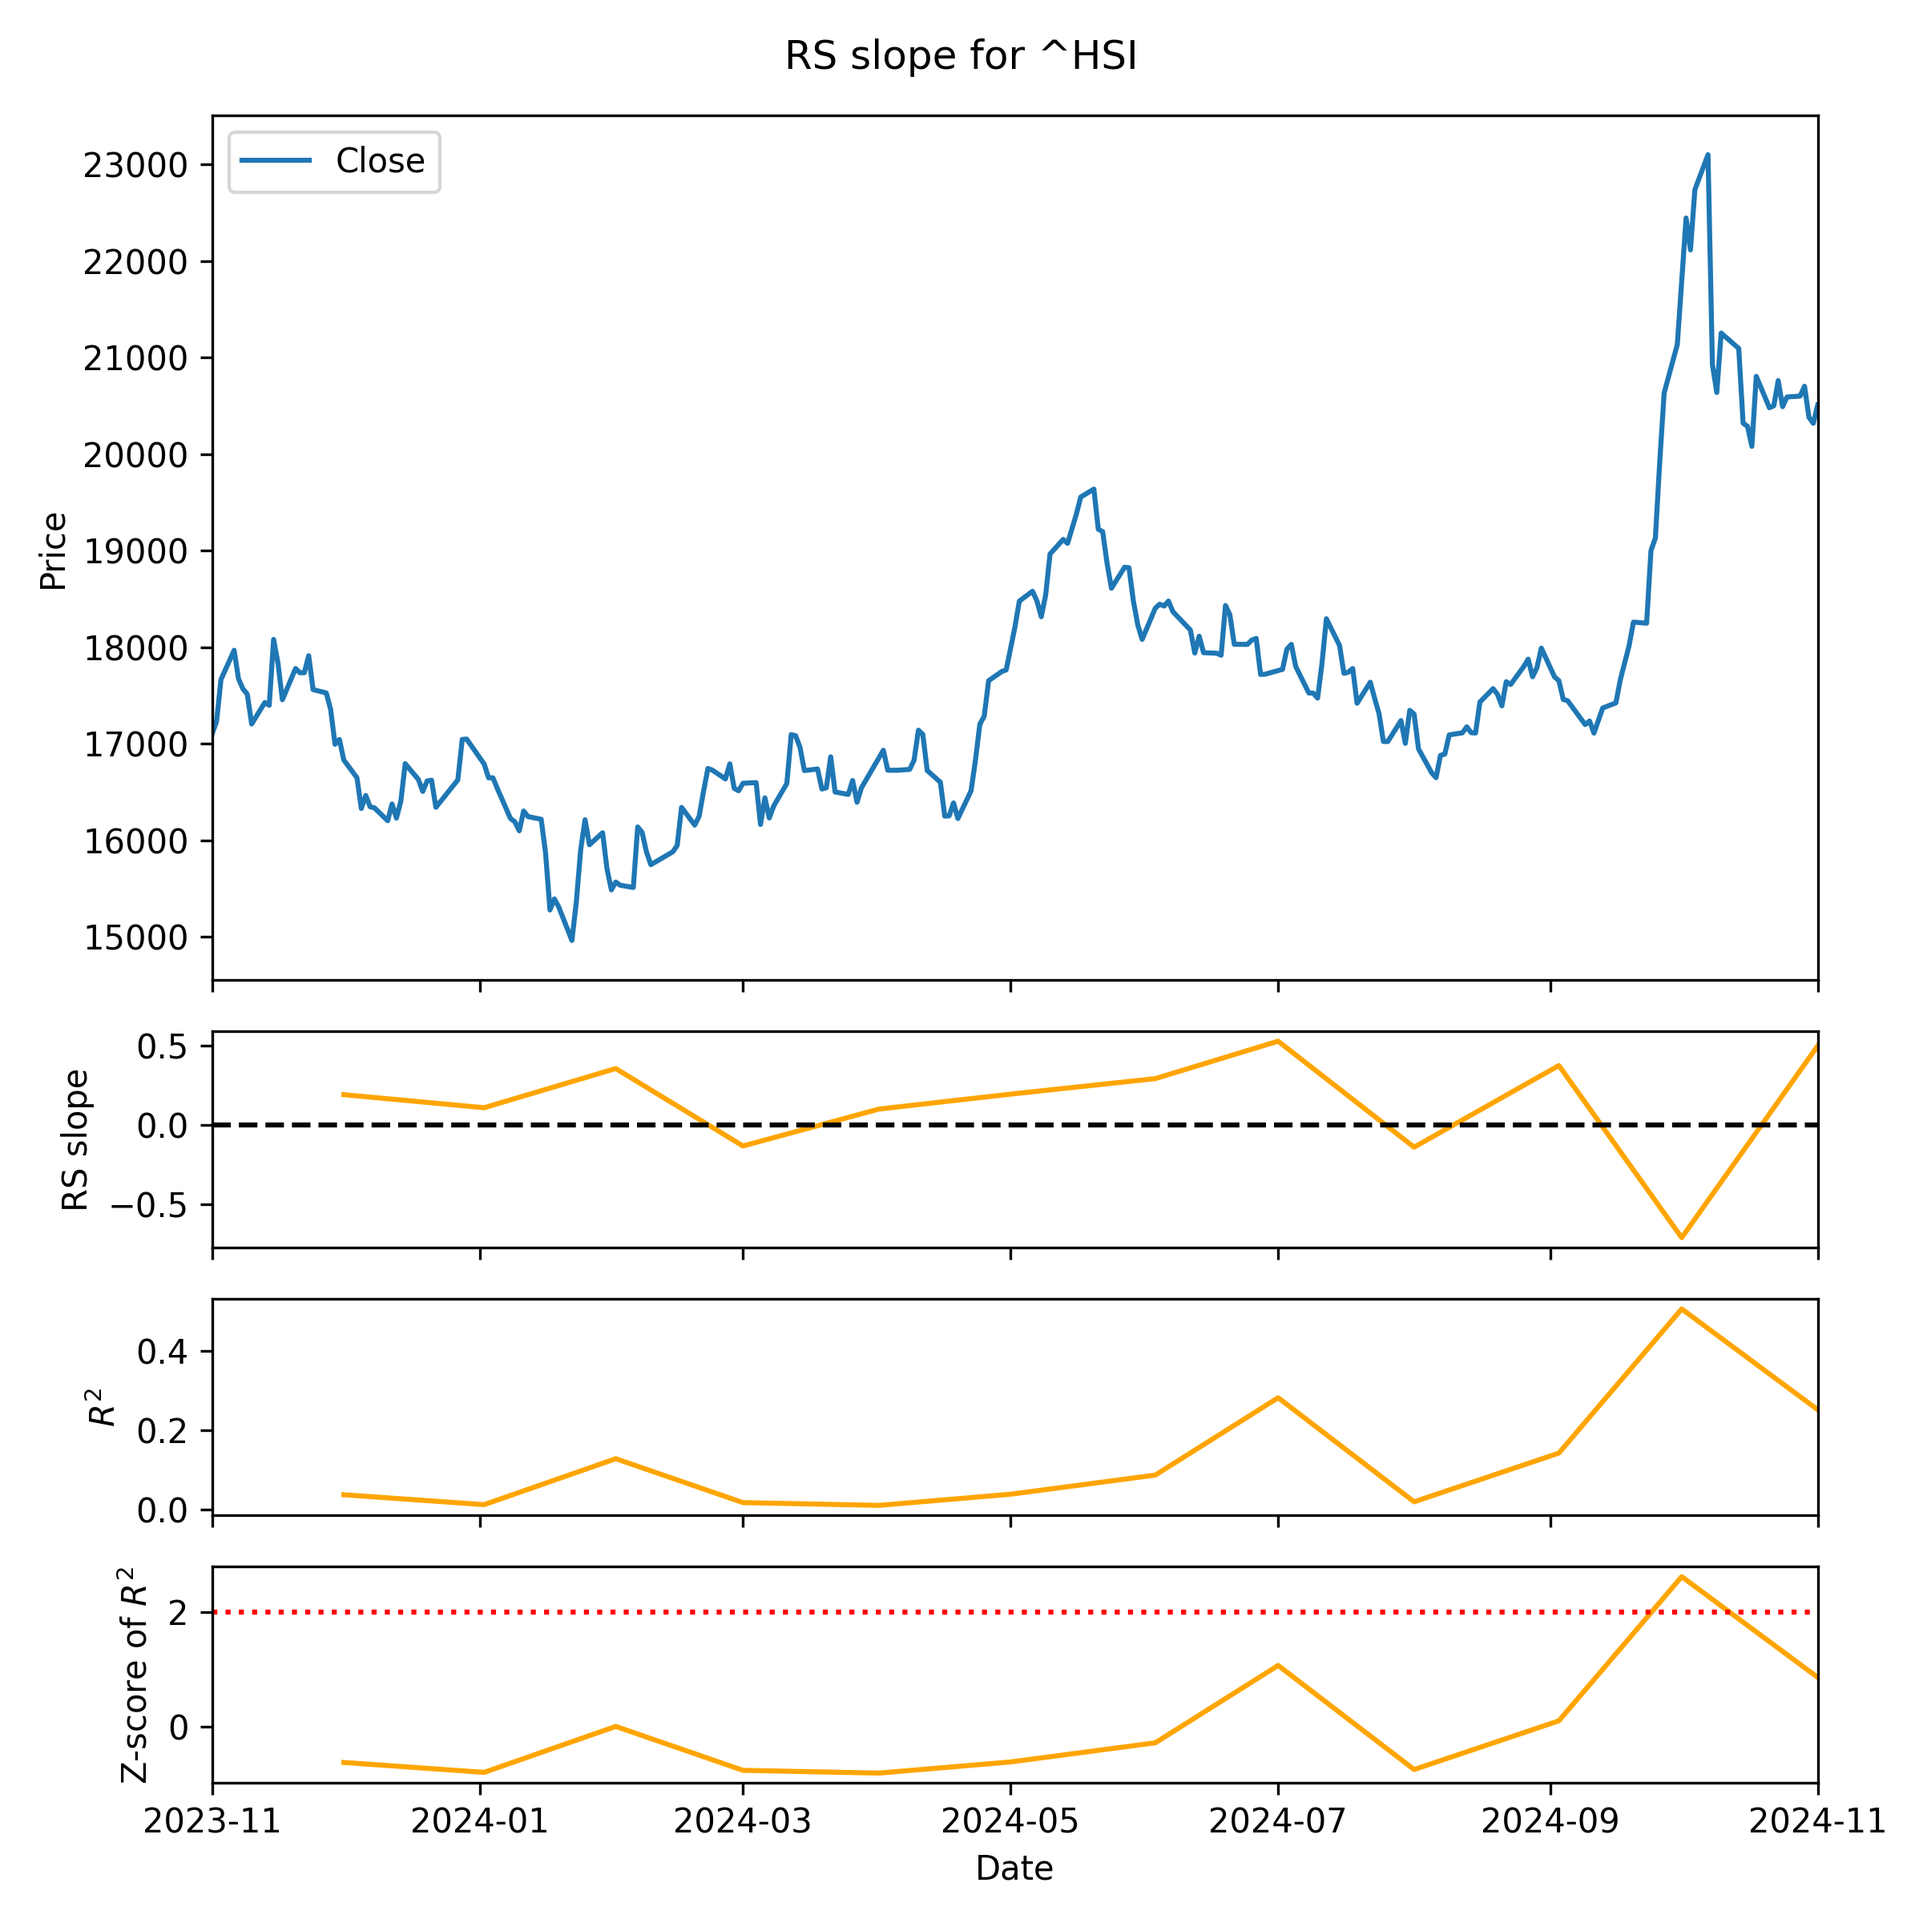
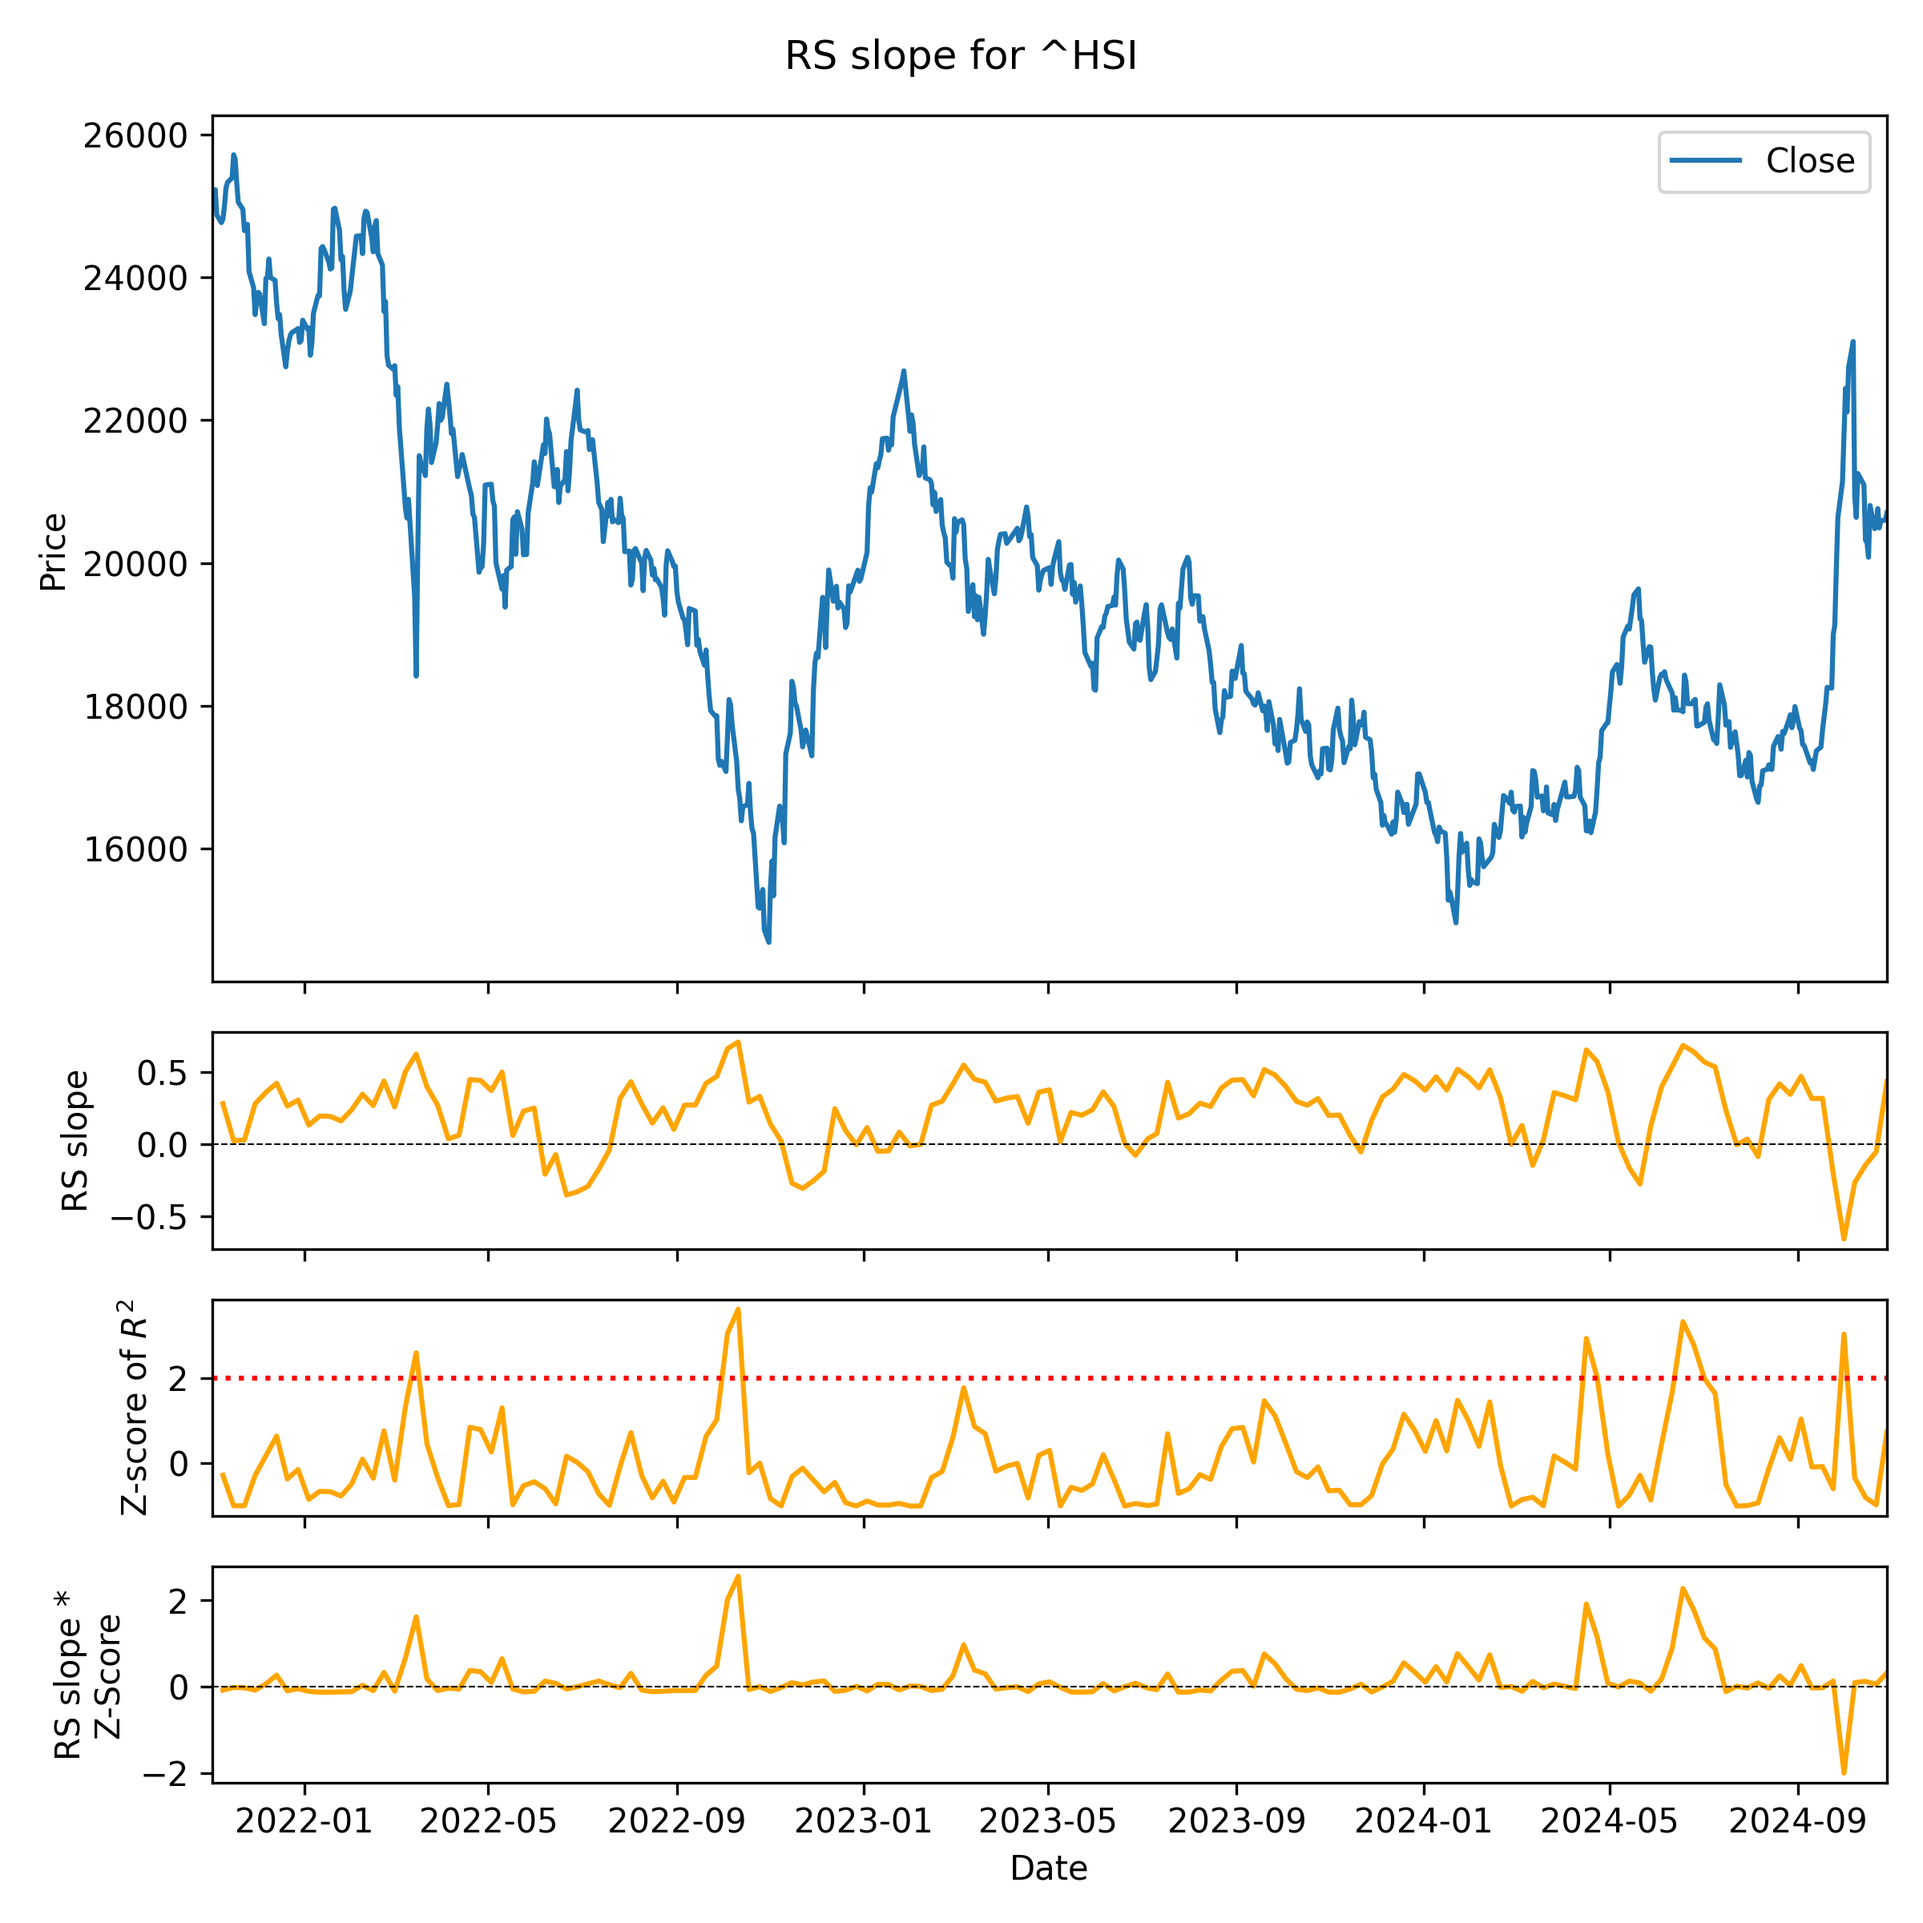
In progress

diff --git a/Program/helper_functions.py b/Program/helper_functions.py
@@ -89,9 +89,9 @@ def get_df(stock, end_date, interval="1d", redownload=False):
         df.set_index("Datetime", inplace=True)
 
     return df
-
+    
 # Generate a list of end dates
-def generate_end_dates(years, current_date, index_name="^GSPC"):
+def generate_end_dates(years, current_date, interval="1m", index_name="^GSPC"):
     try:
         current = dt.datetime.strptime(current_date, "%Y-%m-%d")
         # Calculate the target date
@@ -102,26 +102,35 @@ def generate_end_dates(years, current_date, index_name="^GSPC"):
 
         # Find the end dates
         end_dates = []
-        current_date_int = target_date.replace(day=1)
+        current_date_int = target_date
+
+        if interval == "1m":
+            increment = relativedelta(months=1)
+        elif interval == "1w":
+            increment = relativedelta(weeks=1)
 
         while current_date_int <= current:
-            # Find the first date in the month in the price data
-            month_start = current_date_int
-            month_end = month_start + relativedelta(months=1, days=-1)
-            first_trading_date = df.loc[(df.index >= month_start) & (df.index <= month_end)].index.min()
+            if interval == "1m":
+                # Find the first trading date in the month
+                month_start = current_date_int.replace(day=1)
+                month_end = month_start + relativedelta(months=1, days=-1)
+                first_trading_date = df.loc[(df.index >= month_start) & (df.index <= month_end)].index.min()
+            else:
+                week_start = current_date_int
+                week_end = week_start + relativedelta(weeks=1, days=-1)
+                first_trading_date = df.loc[(df.index >= week_start) & (df.index <= week_end)].index.min()
 
             if pd.isnull(first_trading_date):
-                print(f"Warning: No data found for {month_start.strftime('%Y-%m-%d')}.")
+                print(f"Warning: No data found for {week_start.strftime('%Y-%m-%d')} to {week_end.strftime('%Y-%m-%d')}.")
             else:
                 end_dates.append(first_trading_date.strftime("%Y-%m-%d"))
 
-            current_date_int += relativedelta(months=1)
+            current_date_int += increment
 
         return end_dates
 
     except (ValueError, KeyError) as e:
         print(f"Error: {e}")
-        
         return None
 
 # Get the earning dates of using yfinance

diff --git a/Program/stock_screener.py b/Program/stock_screener.py
@@ -49,6 +49,14 @@ def stoploss_target(stock, entry, end_date, period=5, max_stoploss=0.08, atr_buf
 
 # Create dataframes to store RS ratings and volume ranks
 def create_rs_volume_df(tickers, current_date, end_dates, periods, index_returns, index_shortName, result_folder, infix, backtest, print_multiple=True):
+    # Convert inputs to lists
+    if not isinstance(end_dates, list):
+        end_dates = [end_dates]
+    if not isinstance(periods, list):
+        periods = [periods]
+    if not isinstance(index_returns, list):
+        index_returns = [index_returns]
+
     # Initialize three empty lists to store rs_df, volume_df, and rs_volume_df
     rs_dfs = []
     volume_dfs = []
@@ -123,7 +131,10 @@ def create_rs_volume_df(tickers, current_date, end_dates, periods, index_returns
         volume_dfs.append(volume_df)
         rs_volume_dfs.append(rs_volume_df)
 
-    return rs_dfs, volume_dfs, rs_volume_dfs
+    if len(rs_dfs) == 1:
+        return rs_dfs[0], volume_dfs[0], rs_volume_dfs[0]
+    else:
+        return rs_dfs, volume_dfs, rs_volume_dfs
 
 # Get the information of a stock from yfinance
 def get_stock_info(stock):
